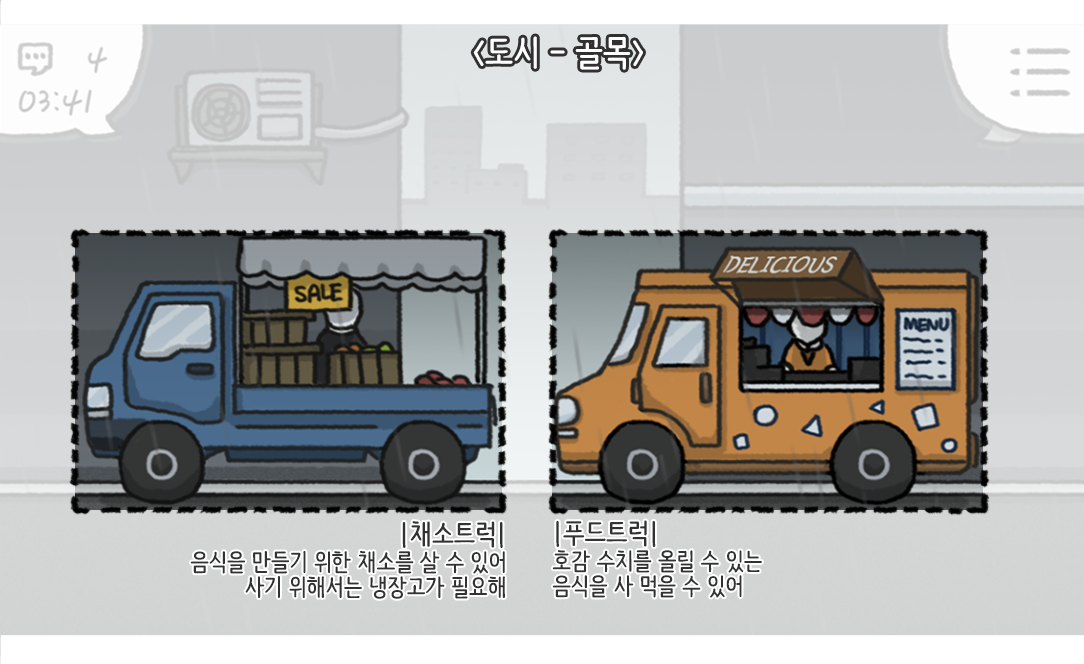
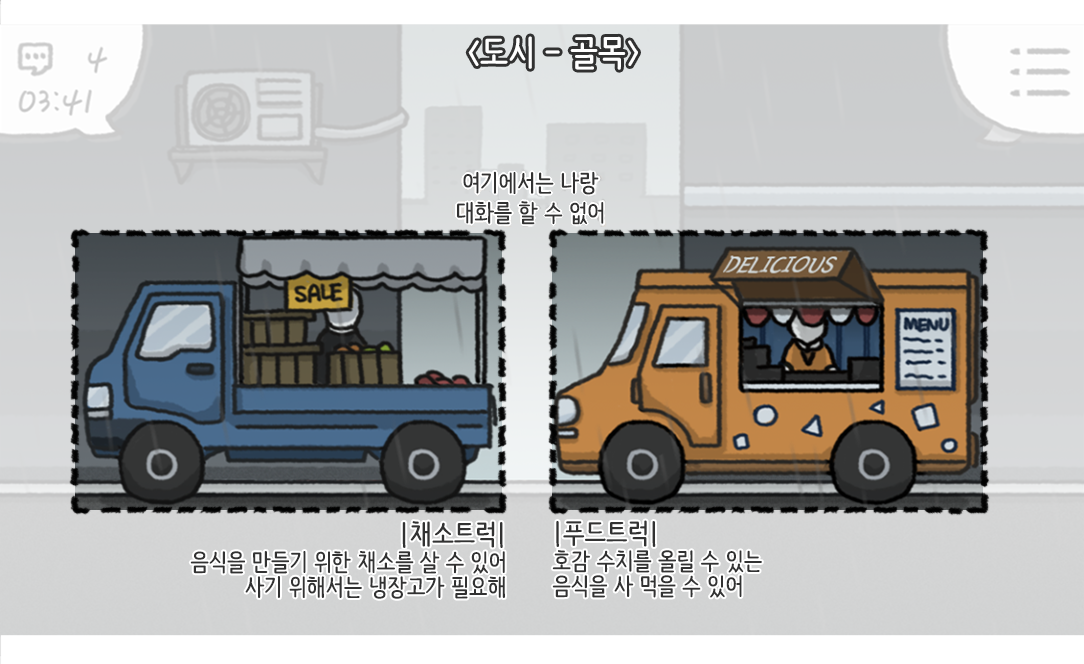
도시 버그 수정
도움말, 뒤로가기

Changed region(s): [[0.3958, 0.241, 0.5784, 0.3614], [0.4262, 0.0301, 0.6089, 0.1205]]

diff --git a/_Script/TalkEvtOut.cs b/_Script/TalkEvtOut.cs
@@ -80,11 +80,9 @@ public class TalkEvtOut : MonoBehaviour
     void Update()
     {
         //클립초기화
-        if (PlayerPrefs.GetInt("frontpark", 0) == 1 || PlayerPrefs.GetInt("frontcity", 0) == 1)
+        if (PlayerPrefs.GetInt("frontpark", 0) == 1)
         {
             PlayerPrefs.SetInt("frontpark", 99);
-            PlayerPrefs.SetInt("frontcity", 99);
-            Debug.Log("aaaaaaaaa");
             charAni.Play("char_park");
         }
 
@@ -93,7 +91,15 @@ public class TalkEvtOut : MonoBehaviour
         {
             GM.GetComponent<MainBtnEvt>().goHome_obj.SetActive(false);
             GM.GetComponent<MainBtnEvt>().helpfrist_obj.SetActive(false);
-            firstGM.GetComponent<ParkShop>().allClose();
+            if((PlayerPrefs.GetInt("outtrip", 0) == 1)){
+                firstGM.GetComponent<ParkShop>().allClose();
+            }
+            if ((PlayerPrefs.GetInt("outtrip", 0) == 2))
+            {
+                firstGM.GetComponent<CityShop>().allClose();
+                firstGM.GetComponent<CityFood>().allClose();
+            }
+            // 여기에러
             closeTalkBoon();
             if (!exitTalkBalln.activeSelf)
             {
@@ -102,7 +108,7 @@ public class TalkEvtOut : MonoBehaviour
                 closeTB_exit.SetActive(true);
                 exitBbg.GetComponent<Image>().sprite = ballnSpr[0];
 
-                if (PlayerPrefs.GetInt("frontpark", 0) == 99 || (PlayerPrefs.GetInt("frontcity", 0) == 99))
+                if (PlayerPrefs.GetInt("frontpark", 0) == 99 || (PlayerPrefs.GetInt("frontcity", 0) == 1))
                 {
                     talkCursor.SetActive(true);
                     exitText.text = "집으로 돌아갈까..\n(종료는 집에서 가능)";
@@ -113,12 +119,6 @@ public class TalkEvtOut : MonoBehaviour
                     exitBbg.GetComponent<Image>().sprite = ballnSpr[1];
                     exitText.text = "(가려면 집으로 돌아가야 할 거 같다.)";
                 }
-
-
-            }
-            else
-            {
-                StartCoroutine("quitGame");
             }
         }
 
@@ -129,7 +129,7 @@ public class TalkEvtOut : MonoBehaviour
         }
         if (cnt_exit == 150)
         {
-            if (PlayerPrefs.GetInt("frontpark", 0) == 99 || (PlayerPrefs.GetInt("frontcity", 0) == 99))
+            if (PlayerPrefs.GetInt("frontpark", 0) == 99 || (PlayerPrefs.GetInt("frontcity", 0) == 1))
             {
                 exitText.text = "..음";
             }

diff --git a/_Script/CityFunction.cs b/_Script/CityFunction.cs
@@ -5,7 +5,7 @@ using UnityEngine.UI;
 
 public class CityFunction : CavasData
 {
-    public GameObject GMtag;
+    public GameObject GMtag, GMC;
     public GameObject buildToast_obj;
 
     //씬이동
@@ -44,6 +44,12 @@ public class CityFunction : CavasData
         //밤낮
         setDay();
 
+        //외출업적
+        if (PlayerPrefs.GetInt("acgocheck", 0) == 1)
+        {
+            checkachOut();
+            PlayerPrefs.SetInt("acgocheck", 0);
+        }
 
 
         //도시에 처음 왔을때
@@ -53,6 +59,32 @@ public class CityFunction : CavasData
             PlayerPrefs.SetInt("cityfirst", 1);
             PlayerPrefs.Save();
         }
+    }
+
+
+    //외출업적
+    void checkachOut()
+    {
+        int cts = PlayerPrefs.GetInt("countgooutst", 0);
+        cts++;
+        PlayerPrefs.SetInt("countgooutst", cts);
+        //Debug.Log("tal" + PlayerPrefs.GetInt("gooutst", 0) + "cts" + cts);
+        if (cts >= 100 && PlayerPrefs.GetInt("gooutst", 0) < 3)
+        {
+            PlayerPrefs.SetInt("gooutst", 3);
+            GMC.GetComponent<AchievementShow>().achievementCheck(7, 2);
+        }
+        else if (cts >= 30 && PlayerPrefs.GetInt("gooutst", 0) < 2)
+        {
+            PlayerPrefs.SetInt("gooutst", 2);
+            GMC.GetComponent<AchievementShow>().achievementCheck(7, 1);
+        }
+        else if (cts >= 1 && PlayerPrefs.GetInt("gooutst", 0) < 1)
+        {
+            PlayerPrefs.SetInt("gooutst", 1);
+            GMC.GetComponent<AchievementShow>().achievementCheck(7, 0);
+        }
+        PlayerPrefs.Save();
     }
 
     public void OpenActHelpI()
@@ -108,21 +140,15 @@ public class CityFunction : CavasData
     {
         if (help == 0)
         {
-            helpCity_obj.GetComponent<Image>().sprite = helpC_spr[0];
+            helpCity_obj.GetComponent<Image>().sprite = helpC_spr[1];
             helpCity_obj.SetActive(true);
             help = 1;
         }
-        else
-        if (help == 1)
+        else if (help == 1)
         {
-            helpCity_obj.GetComponent<Image>().sprite = helpC_spr[1];
-            help = 2;
-        }
-        else
-        {
-            help = 0;
             helpCity_obj.GetComponent<Image>().sprite = helpC_spr[0];
             helpCity_obj.SetActive(false);
+            help = 2;
         }
 
     }

diff --git a/_Script/CityFood.cs b/_Script/CityFood.cs
@@ -289,6 +289,9 @@ public class CityFood : MonoBehaviour {
     {
         foodBuy_obj.SetActive(false);
         foodIlust_obj.SetActive(false);
+        foodWindow_obj.SetActive(false);
+        truckWindow_obj.SetActive(false);
+        truckWindowYN_obj.SetActive(false);
     }
 
 
@@ -336,13 +339,15 @@ public class CityFood : MonoBehaviour {
         truckToast_obj.SetActive(false);
     }
 
+    
 
 
-    /// <summary>
-    /// 상점넘버
-    /// </summary>
-    #region
-    public void num0()
+
+        /// <summary>
+        /// 상점넘버
+        /// </summary>
+        #region
+        public void num0()
     {
         shopNum = 0;
     }

diff --git a/_Script/CityShop.cs b/_Script/CityShop.cs
@@ -869,4 +869,13 @@ public class CityShop : MonoBehaviour {
     {
         itemIndex_i = 15;
     }
+
+    public void allClose()
+    {
+        reformShopWin_obj.SetActive(false);
+        paintBuy_obj.SetActive(false);
+        fabricBuy_obj.SetActive(false);
+        interiorWin_obj.SetActive(false);
+        interiorBuy_obj.SetActive(false);
+    }
 }

diff --git a/_Script/GasrangeEvt.cs b/_Script/GasrangeEvt.cs
@@ -62,12 +62,12 @@ public class GasrangeEvt : MonoBehaviour {
     public void indexNumber1()
     {
         indexNumber_i = 1;
-        point_i = 9;
+        point_i = 11;
     }
     public void indexNumber2()
     {
         indexNumber_i = 2;
-        point_i = 7;
+        point_i = 13;
     }
     public void indexNumber3()
     {
